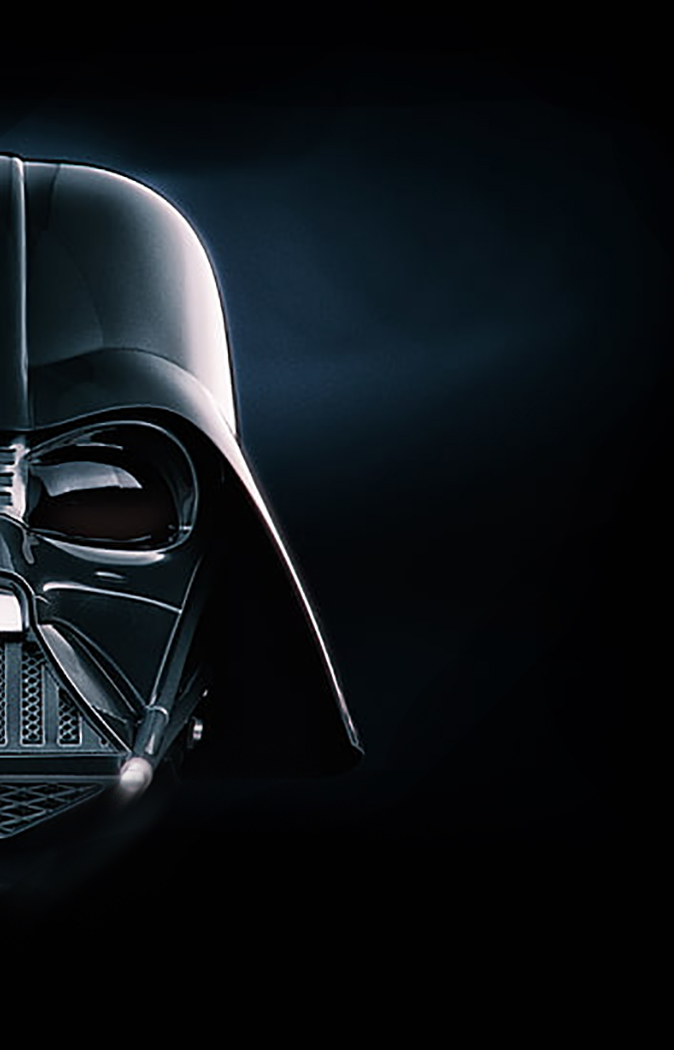
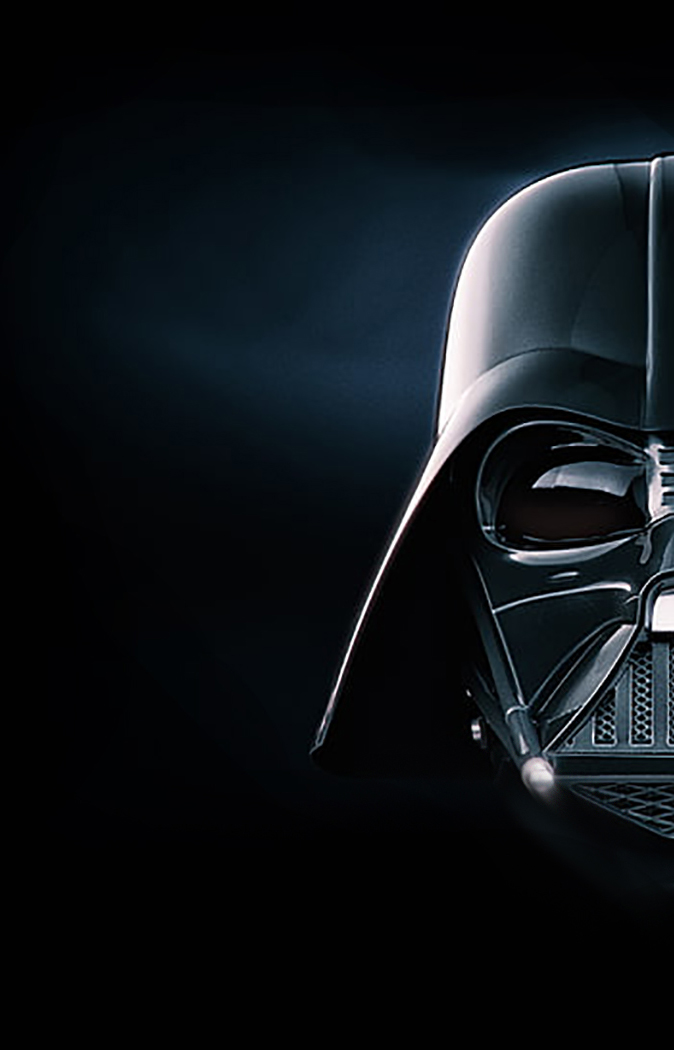
Add Darth Vader image to characters page

diff --git a/src/pages/characters.js b/src/pages/characters.js
@@ -1,11 +1,8 @@
 import React from "react"
 import Layout from "../components/layout"
 // import CharacterList from "../components/characterList" 
-
-// import BackgroundImage from "../components/darthVader";
-
-
-
+// import HomePage from "../components/darthVader"
+import darthVader from "../images/darth-Vader.jpg"
 
 class Characters extends React.Component{
     constructor(props) {
@@ -34,7 +31,15 @@ class Characters extends React.Component{
             const { fetchedData } = this.state;
 
             return (
+
                 <Layout>
+                    <img style={{
+                    position: 'fixed',
+                    top: '0',
+                    width: '250',
+                    height: '300',
+                    right: '0'
+                }} src={darthVader} alt="Darth Vader" />
                     <h1 
                     className="animate-header"
                     style={{
@@ -58,6 +63,8 @@ class Characters extends React.Component{
                     >(This list is an example of what is to come. A much larger list will have search capability<br /> and links to the characters description.)</p>
 
                     {/* <CharacterList></CharacterList> */}
+
+
                     <div 
                     style={{
                         color: 'white',
@@ -70,12 +77,13 @@ class Characters extends React.Component{
                     </div>
 
                     <div id="docBod"></div>  
-                    <div class="container text-center">
+                    <div className="container text-center">
                         <p>
                         <a href="https://swapi.py4e.com/" id="prev" style={{ backgroundColor: 'black', border: '1px solid white', borderRadius: '10px', color: 'white', padding: '10px', marginRight: '15px'}} className="btn btn-warning btn-sml" role="button">« Previous</a>
                         <a href="https://swapi.py4e.com/" id="next" style={{ backgroundColor: 'black', border: '1px solid white', borderRadius: '10px', color: 'white', padding: '10px'}} className="btn btn-warning btn-sml" role="button">Continue »</a>
                         </p>
                     </div>
+                    {/* <HomePage /> */}
                 </Layout>
             )
         }

diff --git a/src/components/darthVader.js b/src/components/darthVader.js
@@ -1,6 +1,7 @@
 import React from "react"
-import { graphql, StaticQuery } from "gatsby"
-import BackgroundImage from 'gatsby-background-image'
+import { graphql } from "gatsby"
+import Img from "gatsby-image"
+import Layout from "../components/layout"
 
 /*
  * This component is built using `gatsby-image` to automatically serve optimized
@@ -13,41 +14,29 @@ import BackgroundImage from 'gatsby-background-image'
  * - `useStaticQuery`: https://www.gatsbyjs.org/docs/use-static-query/
  */
 
-const VaderImage = ({className}) => {
-  <StaticQuery
-  query={graphql`
-    query {
-      desktop: file(relativePath:  { eq: "darth-vader.jpg" }) {
-        childImageSharp {
-          fluid(maxWidth: 100) {
-            ...GatsbyImageSharpFluid
-          }
+const HomePage = ({ data }) => {
+  return (
+    <Layout>     
+      <Img
+        className="headshot"
+        fixed={data.file.childImageSharp.fixed}
+        alt="text"
+      />
+    </Layout>
+  )
+}
+
+
+  export const query = graphql`
+  query {
+    file(relativePath: { eq: "darth-vader.jpg" }) {
+      childImageSharp {
+        fixed(width: 225, height: 425) {
+          ...GatsbyImageSharpFixed
         }
       }
     }
-  `}
-  
-  render={data => {
-    // Set ImageData.
-    const imageData = data.desktop.childImageSharp.fluid
-    return (
-      <BackgroundImage
-        Tag="section"
-        className={className}
-        fluid={imageData}
-        backgroundColor={`#040e18`}
-      >
-      </BackgroundImage>
-    )
-  }}
-/>
-}
-
-const StyledBackgroundSection = styled(VaderImage)`
-width: 100%;
-background-position: bottom center;
-background-repeat: repeat-y;
-background-size: cover;
+  }
 `
 
-export default StyledBackgroundSection
+export default HomePage
